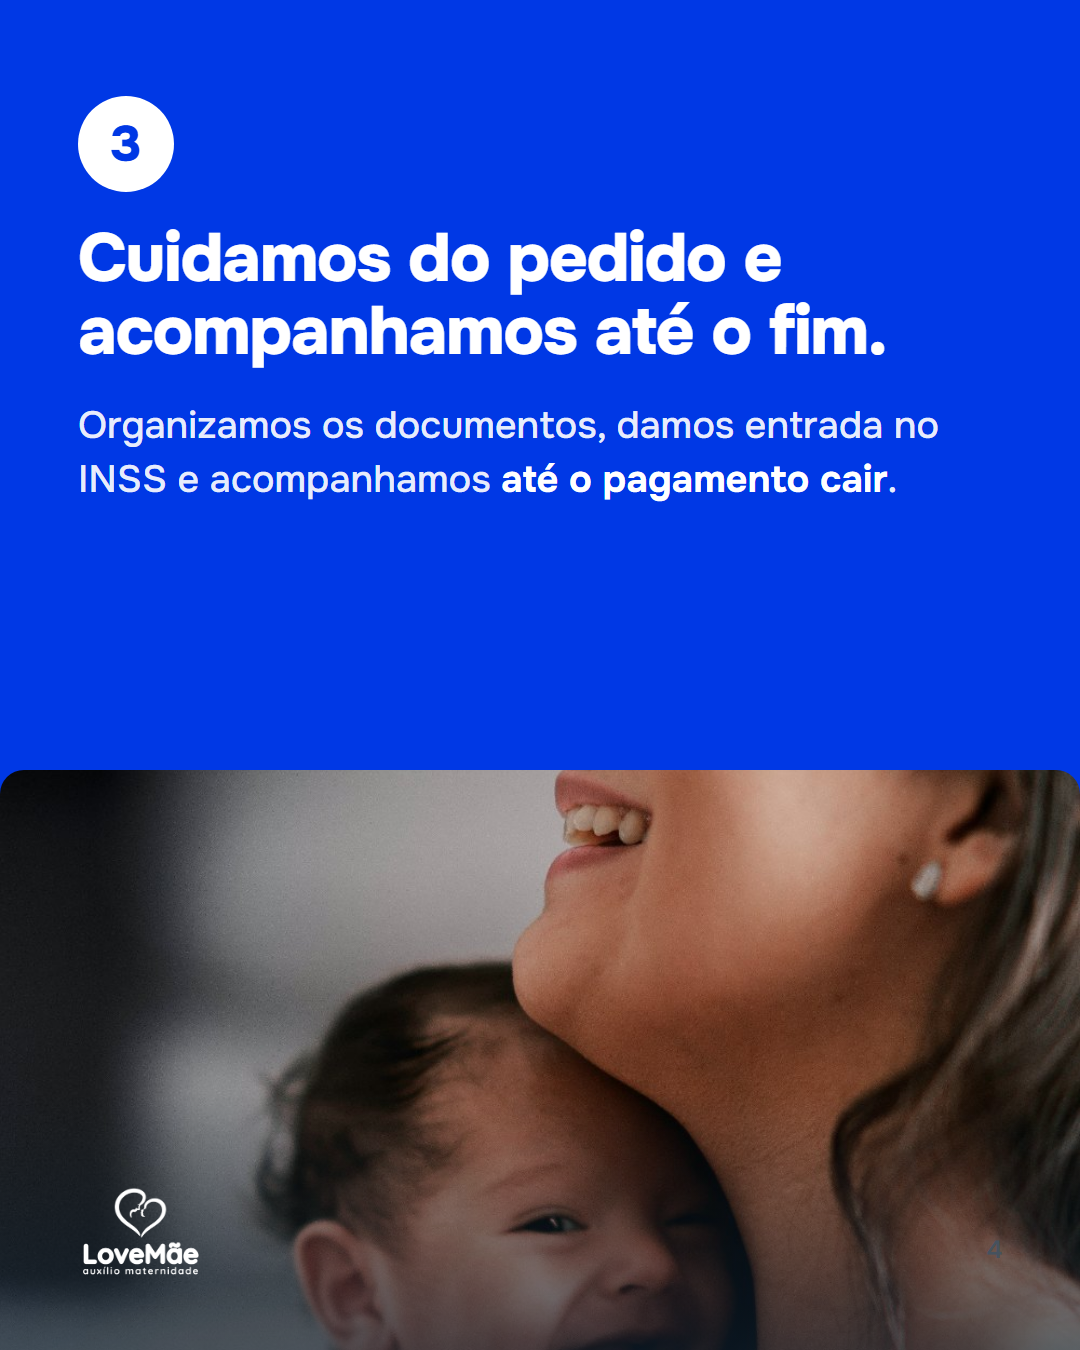
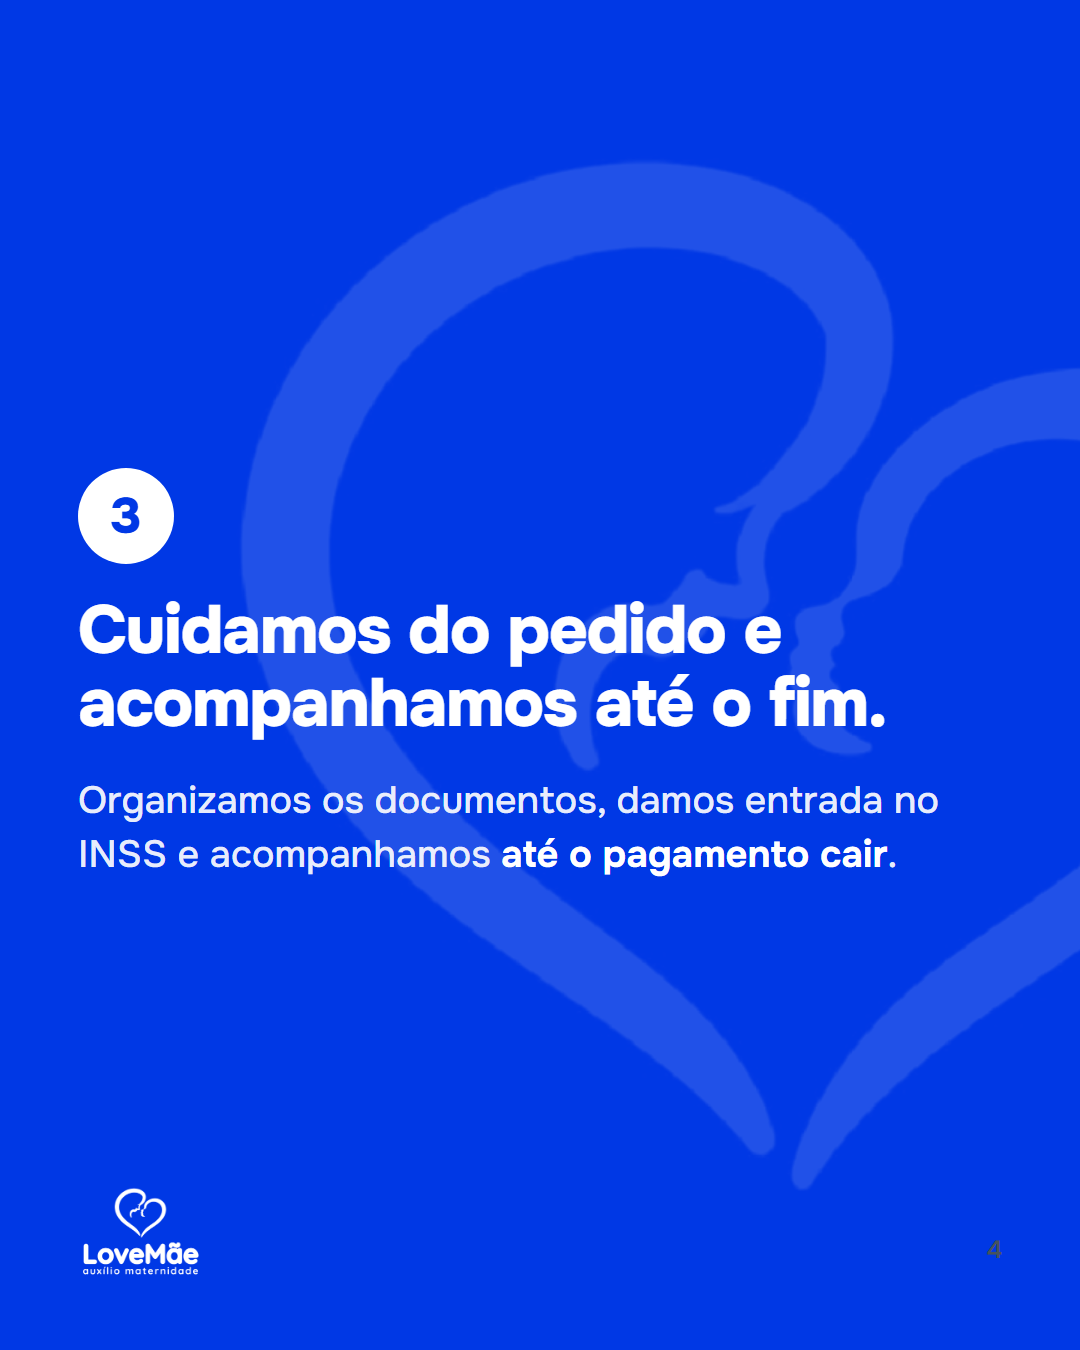
trilogia: carrosséis só com texto (fotos removidas)

diff --git a/marketing/conteudo/carrossel-o-que-e-2026-09-17/legenda.md b/marketing/conteudo/carrossel-o-que-e-2026-09-17/legenda.md
@@ -49,8 +49,3 @@ https://www.lovemaeauxiliomaternidade.com.br/?utm_source=instagram&utm_medium=po
 | 5 — CTA | `slide-5.png` |
 
 Regerar: `NODE_PATH=../../../identidade/propostas/node_modules node gerar.cjs`
-
-## Fotos
-
-- `foto-mae-bebe.jpg` — a mesma foto do site (`site/public/mae-bebe-sorriso.jpg`), de banco
-  de imagem gratuito. Créditos das fotos do projeto em `marketing/referencias/README.md`.
